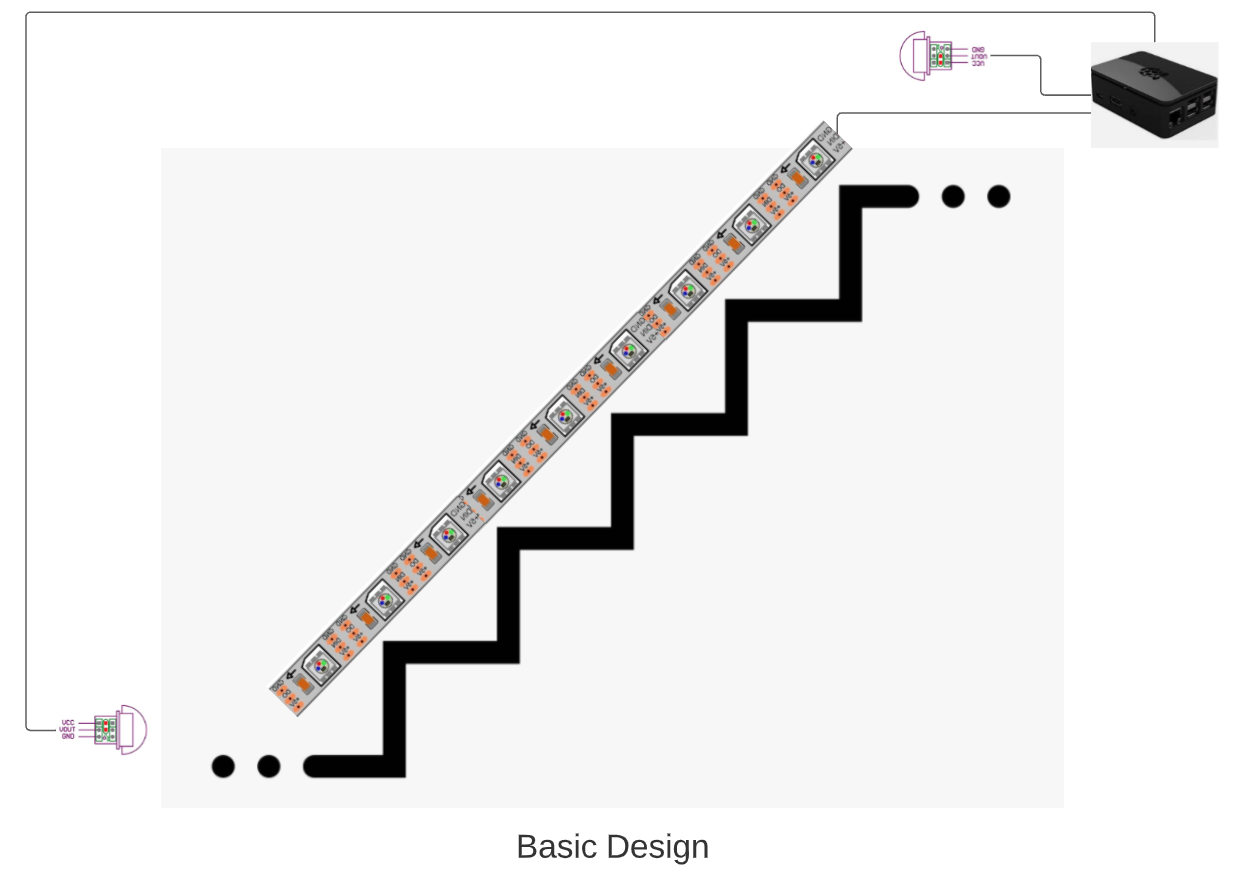
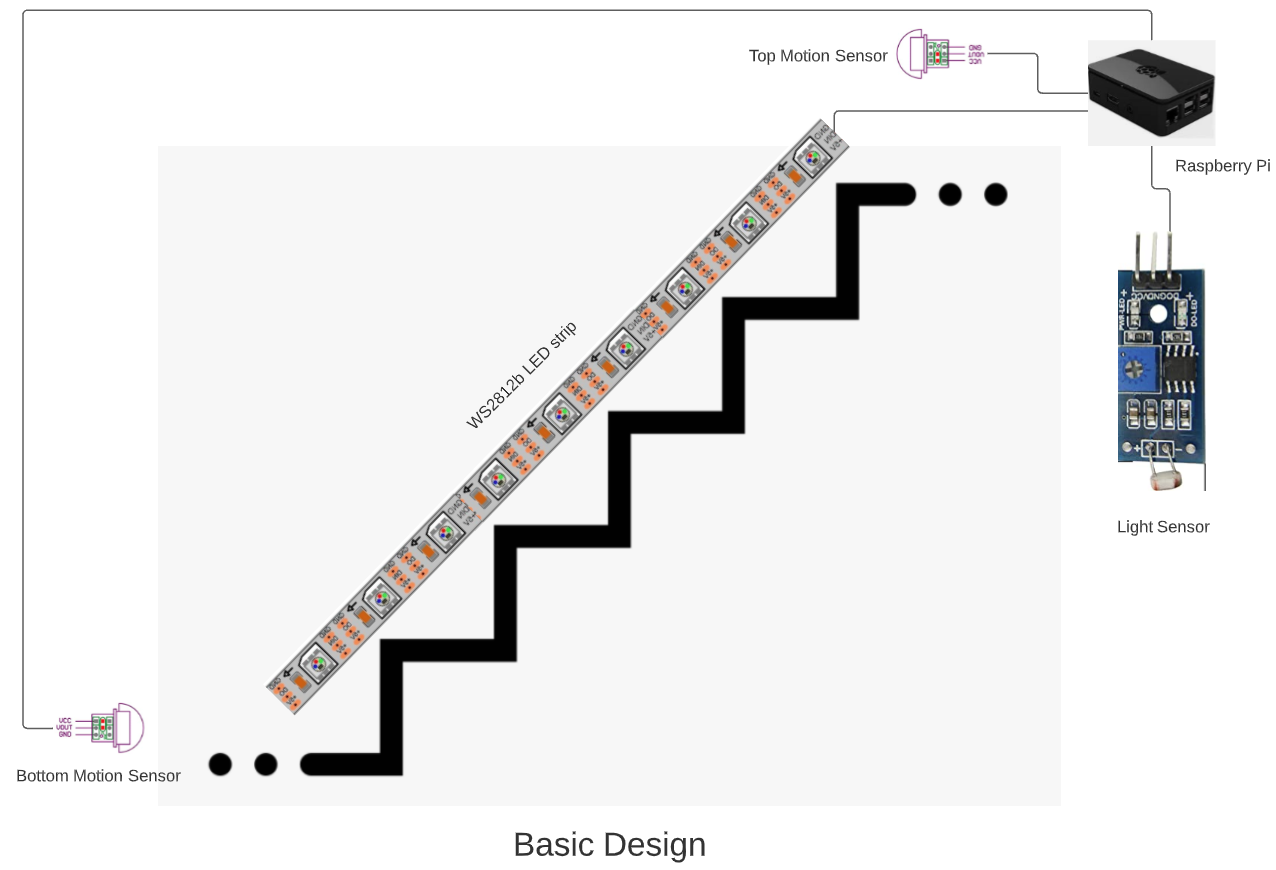
updated doc to show and mention light sensor

diff --git a/README.md b/README.md
@@ -1,7 +1,7 @@
 # raspberry-pi-ws2812b-stair-lighting
 
 ## Overview
-This is a simple raspberry pi project to use a WS2812b LED strip for lighting a flight of stairs. The design assumes that the LED strip extends from the top of the stairs to the bottom. It also assumes that the raspberry pi is at the top of the stairs too.  There is one motion detector at the top of the stairs and one motion detector at the bottom.
+This is a simple raspberry pi project to use a WS2812b LED strip for lighting a flight of stairs. The design assumes that the LED strip extends from the top of the stairs to the bottom. It also assumes that the raspberry pi is at the top of the stairs too.  There is one motion detector at the top of the stairs and one motion detector at the bottom. A separate light sensor at the top of the stairs ensures that the lights only work at night.
 
 ![](.README_images/basic-design.png)
 
